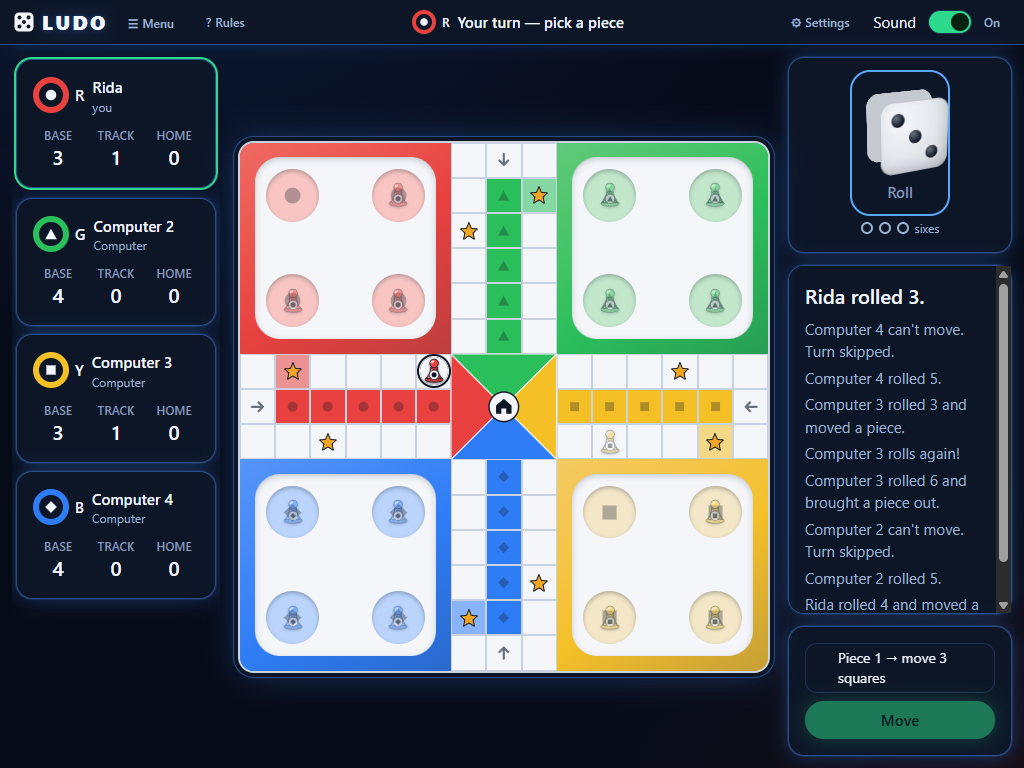
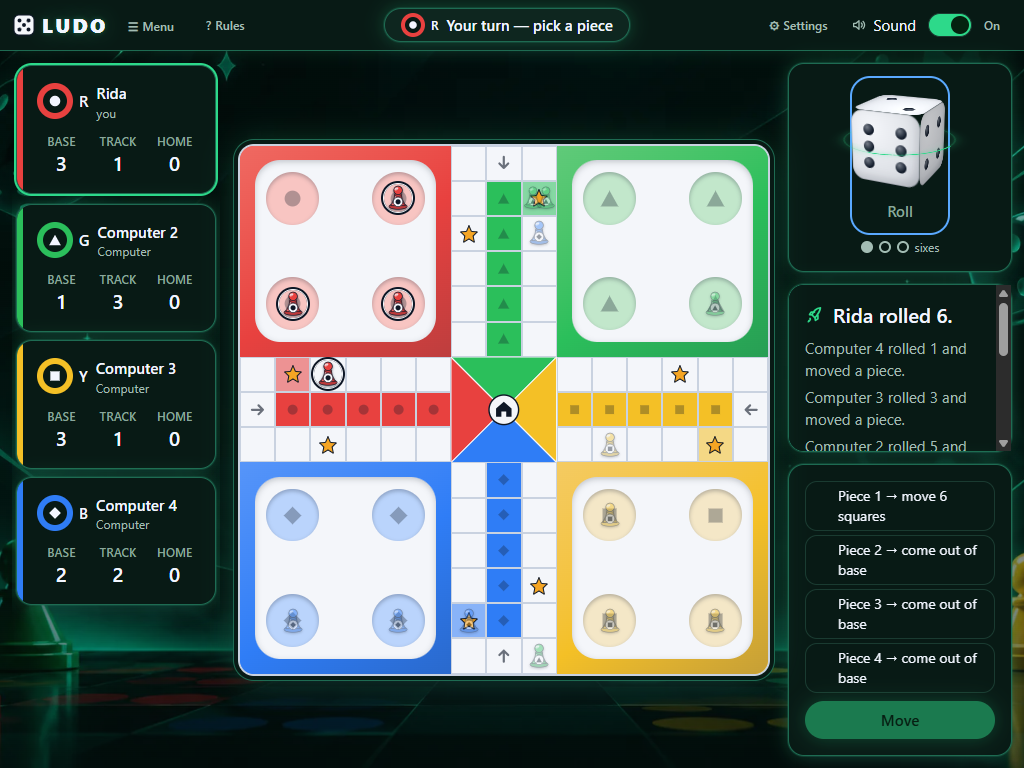
docs: record the emerald look and retake its screenshots (FR-SYS-10, NFR-SYS-05, NFR-SYS-07, NFR-SYS-10)
The UI spec has the emerald Dark tokens and --title-accent. Traceability
notes the full-cube die and its tests. The screenshots for all five
themes, grayscale, the three window sizes and the win screen are
retaken with npm run e2e -- themes/grayscale/sizes/smoke --save.

Changed region(s): [[0.0, 0.0, 1.0, 1.0], [0.7812, 0.9688, 0.9375, 1.0], [0.8125, 0.875, 0.875, 0.9062]]

diff --git a/docs/05-traceability.md b/docs/05-traceability.md
@@ -33,7 +33,7 @@ Status: `—` not started · `WIP` · `Done` · `Blocked (reason)` · `Dropped (
 | NFR-SYS-02 AI within 2 s | P12 | `src/feedback/aiTimings.ts` logs how long each computer turn took, in dev builds only, and `src/feedback/aiTimings.test.ts` covers it. `docs/evidence/NFR-SYS-02-ai-times.md`: one whole game at the mock's default speed, 169 computer turns, slowest 1,733 ms, none over 2 s. Measured against the mock, up to when the move arrives | Done |
 | NFR-SYS-03 No crash | P6, P11, P12 | Every screen has an error boundary. `src/components/ErrorBoundary.test.tsx` and `src/App.test.tsx` prove a snapshot that can't be drawn shows "Something went wrong — your game is safe" and a Try again button that sends `state:sync`, and that a good snapshot brings the board back. `src/App.test.tsx` also proves a lobby that can't be drawn gets the same way back. `docs/evidence/NFR-SYS-03-error-boundary.png` shows the error screen in a real browser, forced by the dev-only `?fixture=broken` that `src/mock/fixtures.test.ts` covers. `docs/evidence/FR-SYS-03-move-checks.md` records 2 whole games with no console errors, and `docs/evidence/FR-SYS-05-event-checks.md` and `docs/evidence/FR-SYS-06-win-restart-checks.md` 2 more each on later code, and `docs/evidence/NFR-SYS-04-resilience-checks.md` 2 more. `docs/evidence/NFR-SYS-03-runs.md` records 5 full games in a row on the production build with no error screen and no console errors | Done |
 | NFR-SYS-04 State kept on bad input | P3, P11, P12 | `src/store/gameStore.test.ts`: an older version is dropped, and a rejected or timed-out command leaves the snapshot deep-equal. `src/adapter/LgsAdapter.test.ts`: an incomplete reply is never applied. `src/store/gameStore.test.ts` and `src/feedback/useEventFeedback.test.ts` prove a lost connection keeps the board and events missed while away are never guessed. `src/interaction/useAppNavigation.test.ts` proves a refresh goes back to the right screen, and `src/App.test.tsx` covers the banner and the second-tab card. `src/components/ConnectionBanner.test.tsx` and `src/components/StillThereDialog.test.tsx` cover what the player is told. `docs/evidence/NFR-SYS-04-resilience-checks.md` shows a refresh, a reconnect, a lost snapshot and a second tab in real matches. `docs/evidence/NFR-SYS-04.md` has the P12 test run, and a browser check that fast repeated presses send one request and presses for moves not on offer send nothing | Done |
-| NFR-SYS-05 Dice not altered | P7, P12 | `src/components/Dice.test.tsx`: the face equals the value given, and no number shows while rolling. A search finds no `Math.random` in `src/`, and `eslint.config.js` now rejects it outside tests. `src/screens/GameScreen.test.tsx` proves the die lands on the server's 6, 1 and 3. `docs/evidence/FR-SYS-02-dice-checks.md` and `docs/evidence/NFR-SYS-05-die-shows-six.png` show the same forced rolls in a real match. `docs/evidence/NFR-SYS-05.md` has the P12 test run and search. The optional 3D die from P14 follows the same rule: `src/components/Dice3D.test.tsx` proves it gets no value while rolling, and `docs/evidence/P14-polish-checks.md` records six rolls in a real browser, each landing on the server's value (`docs/evidence/NFR-SYS-05-die3d-landed.png`). Since the visual refresh the default die is a CSS cube (`src/components/DiceFace.tsx`): only its front face has pips, so it still shows only the server's value, and `src/components/Dice.test.tsx` passes unchanged | Done |
+| NFR-SYS-05 Dice not altered | P7, P12 | `src/components/Dice.test.tsx`: the face equals the value given, and no number shows while rolling. A search finds no `Math.random` in `src/`, and `eslint.config.js` now rejects it outside tests. `src/screens/GameScreen.test.tsx` proves the die lands on the server's 6, 1 and 3. `docs/evidence/FR-SYS-02-dice-checks.md` and `docs/evidence/NFR-SYS-05-die-shows-six.png` show the same forced rolls in a real match. `docs/evidence/NFR-SYS-05.md` has the P12 test run and search. The optional 3D die from P14 follows the same rule: `src/components/Dice3D.test.tsx` proves it gets no value while rolling, and `docs/evidence/P14-polish-checks.md` records six rolls in a real browser, each landing on the server's value (`docs/evidence/NFR-SYS-05-die3d-landed.png`). Since the visual refresh the default die is a CSS cube (`src/components/DiceFace.tsx`): only its front face has pips, so it still shows only the server's value, and `src/components/Dice.test.tsx` passes unchanged. The emerald look makes it a full cube with pips on all six faces, like a real die: `src/components/DieCube.test.tsx` proves only the face turned to the player is marked as the value and every face is blank while it tumbles, and the front page's die (`src/components/HeroDie.test.tsx`) is decoration that never shows a value | Done |
 | NFR-SYS-06 First-timer completes a turn | P12 | The design supports it with the rules summary (`src/components/RulesSummary.test.tsx`), highlighted pieces and plain words (`docs/evidence/NFR-SYS-08-keyboard.md`). Not run yet: the hallway test needs a person who hasn't seen the app. `docs/evidence/NFR-SYS-06-first-use.md` has the steps and a place for the result. `docs/evidence/NFR-SYS-06-walkthrough.md` records an expert walkthrough, which is not the hallway test: it found that the turn line didn't say to press Move after a piece was picked (fixed, and `src/screens/GameScreen.test.tsx` covers it) and that a skipped first turn doesn't say why (a team decision). Still needed: the hallway test | WIP |
 | NFR-SYS-07 Not colour alone | P4, P12 | `docs/evidence/NFR-SYS-07-player-marks.png`: the `PlayerMark` row in grayscale, where shape and letter still tell the four players apart. `PlayerMark` and `Piece` read `PLAYER_IDENTITY` in `src/config/players.ts`. `src/screens/LobbyScreen.test.tsx` proves every lobby seat shows its mark, empty seats included. `src/components/StatusPanel.test.tsx` proves the game screen's cards show more than colour, and `docs/evidence/NFR-SYS-07-board-grayscale.png` shows the board and status panel in grayscale. `docs/evidence/NFR-SYS-07-move-highlights-grayscale.png` and `docs/evidence/NFR-SYS-07-capture-grayscale.png` show the move highlights, destination marker and dashed capture ring in grayscale. P9's capture and finish effects are movement, and the log uses names, so neither depends on colour. `docs/evidence/NFR-SYS-07-win-grayscale.png` shows the win screen in grayscale. The connection banner's two states differ in words and a spinner as well as the border colour, and `src/components/ConnectionBanner.test.tsx` checks the words. `docs/evidence/NFR-SYS-07-game-dark.png`, `docs/evidence/NFR-SYS-07-game-light.png`, `docs/evidence/NFR-SYS-07-win-dark.png` and `docs/evidence/NFR-SYS-07-win-light.png` show the board, status panel and win screen in grayscale in both themes. `docs/evidence/NFR-SYS-07-contrast.md` checks every text on 11 screens and dialogs in both themes against WCAG AA: none below, the closest 5.33:1. Since the visual refresh the pieces are glossy pawns whose white badge carries the player's shape (`src/components/Pawn.tsx`); the grayscale screenshots above were retaken with them, and `npm run e2e -- contrast` still passes in all five themes | Done |
 | NFR-SYS-08 Simple wording + keyboard | P4–P12 | `src/components/SegmentedControl.test.tsx`, `src/components/Dice.test.tsx`, `src/App.test.tsx` and `docs/evidence/NFR-SYS-08-kitchen-sink-checks.md` cover the controls on their own. `docs/evidence/FR-SYS-01-lobby-flow.md` records a keyboard-only run from the main screen through setup and the lobby to the game starting, and `docs/evidence/FR-SYS-09-game-screen-checks.md` records the Tab order and the `?` and Esc keys on the game screen. `src/interaction/useGameKeys.test.ts` covers `R`, `1`–`4`, `Enter`, `Esc` and `S`, and `docs/evidence/FR-SYS-02-dice-checks.md` shows rolling by `R` and Space with the die keeping focus. `docs/evidence/FR-SYS-03-move-checks.md` records a whole game, from the main screen to a winner, played with only the keyboard, and `docs/evidence/FR-SYS-06-win-restart-checks.md` records the game menu, the confirm dialog and the win screen used by keyboard alone. `src/App.test.tsx` proves the second-tab card takes the keyboard focus, and `docs/evidence/NFR-SYS-04-resilience-checks.md` records another whole game played by keyboard alone on the P11 code. Player-facing text is in `src/feedback/copy.ts`. `docs/evidence/NFR-SYS-08-keyboard.md` records the P12 run with no mouse, in Chrome and Firefox: setup, waiting room, roll, choose, move, restart, a whole game, Play again and leave. It also has a wording review of `src/feedback/copy.ts` that found nothing to change | Done |

diff --git a/docs/03-ui-spec.md b/docs/03-ui-spec.md
@@ -24,14 +24,14 @@ attribute on `<html>` and zero component changes.
 
 ```css
 :root, html[data-theme="dark"] {
-  --bg-deep:     #060B18;
-  --bg-panel:    #0C1627;
-  --bg-raised:   #142238;
-  --border-soft: #1E3050;
+  --bg-deep:     #030F0C;
+  --bg-panel:    #081A15;
+  --bg-raised:   #0E261F;
+  --border-soft: #1A3B31;
   --focus-ring:  #5AA9FF;
   --text-high:   #F2F6FF;
-  --text-mid:    #9DB0CE;
-  --text-low:    #8496B5;
+  --text-mid:    #A3BDB4;
+  --text-low:    #8AA79C;
   --accent:      #2DD98A;
   --accent-press:#1FB874;
   --on-accent:   #04220F;
@@ -45,8 +45,9 @@ attribute on `<html>` and zero component changes.
   --p-green:  #2BBF5B;
   --p-yellow: #F4C026;
   --p-blue:   #2F7DF6;
-  --panel-edge: #2A4C86;
-  --glow:       rgb(64 140 255 / 0.30);
+  --panel-edge: #1E6B52;
+  --glow:       rgb(45 217 138 / 0.26);
+  --title-accent: #2DD98A;
 }
 
 html[data-theme="light"] {
@@ -73,11 +74,16 @@ html[data-theme="light"] {
   --p-blue:   #2367D8;
   --panel-edge: #C4D0E3;
   --glow:       rgb(29 95 209 / 0.10);
+  --title-accent: #0B7A48;
 }
 ```
 
 `--panel-edge` and `--glow` came with the visual refresh (glossy pawns, a 3D die, glowing
 panels). They are for edges and shadows only, never behind text, so they don't change contrast.
+
+The emerald look made Dark green-tinted, to match the team's mockups and the background picture
+(`src/assets/backdrop.webp`, shown in Dark only). `--title-accent` is the green of "DO" in the big
+LUDO and of the feature icons; each theme picks a shade that reads on its own background.
 
 Check both themes for text contrast (aim for 4.5:1 on body text) before
 calling P4 done.

diff --git a/CHANGELOG.md b/CHANGELOG.md
@@ -19,3 +19,4 @@
 - After P12: "Your turn — now press Move" once a piece is picked, from an expert walkthrough of a first turn, plus the D3 v1.1 change list and a demo script (NFR-SYS-06).
 - P14: polish, not graded. Three more themes (Neon, Forest, Minimal), the final places revealed in turn with a Copy result button, and an optional 3D die that downloads only when turned on. 3D pieces and music were left out.
 - After P14: a visual refresh. Glossy pawns whose white badge keeps each player's shape, a 3D-looking die drawn in CSS that shows only the server's value, yards with starting spots, gold safe stars and a home badge, glowing panels on a deep backdrop, and a redesigned win screen with the winner's pawn and a podium (FR-SYS-06, FR-SYS-10, NFR-SYS-05, NFR-SYS-07).
+- After P14: the emerald look, from the team's mockups. The Dark theme turns green and shows the background picture; the front page gets a big 3D die you can drag or spin, the LUDO title and a feature strip; New Game becomes one card with icons; and the game's die becomes a real cube with pips on every face that settles with the server's value toward the player. It also fixes the CSS die from the visual refresh, whose side faces Tailwind had dropped (FR-SYS-01, FR-SYS-02, FR-SYS-10, NFR-SYS-05, NFR-SYS-08).
